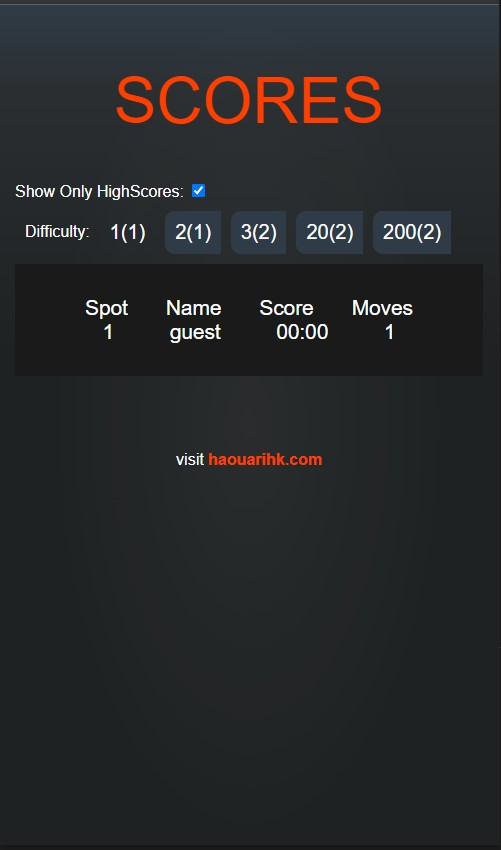
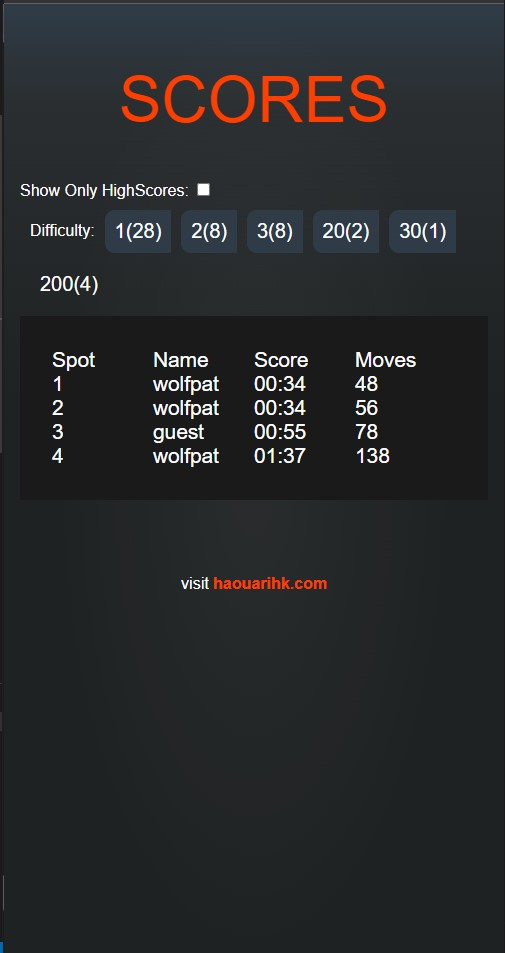
changes to the style

diff --git a/src/components/scores/item.svelte b/src/components/scores/item.svelte
@@ -10,7 +10,7 @@
 	<div>
 		{typeof spot === 'number' ? spot : 'Spot'}
 	</div>
-	<div>
+	<div style="text-align:center;">
 		{typeof name === 'string' ? name : 'Name'}
 	</div>
 	<div>
@@ -23,8 +23,7 @@
 
 <style>
 	div {
-		display: flex;
-		justify-content: space-evenly;
-		align-items: center;
+		display: grid;
+		grid-template-columns: 1fr 1fr 1fr 1fr;
 	}
 </style>

diff --git a/src/routes/scores.svelte b/src/routes/scores.svelte
@@ -80,7 +80,10 @@
 	.menu {
 		background: var(--almost-black);
 		display: flex;
+
 		flex-direction: column;
+		justify-content: space-between;
+		align-items: stretch;
 		padding: 2rem;
 		font-size: 1.3rem;
 	}
